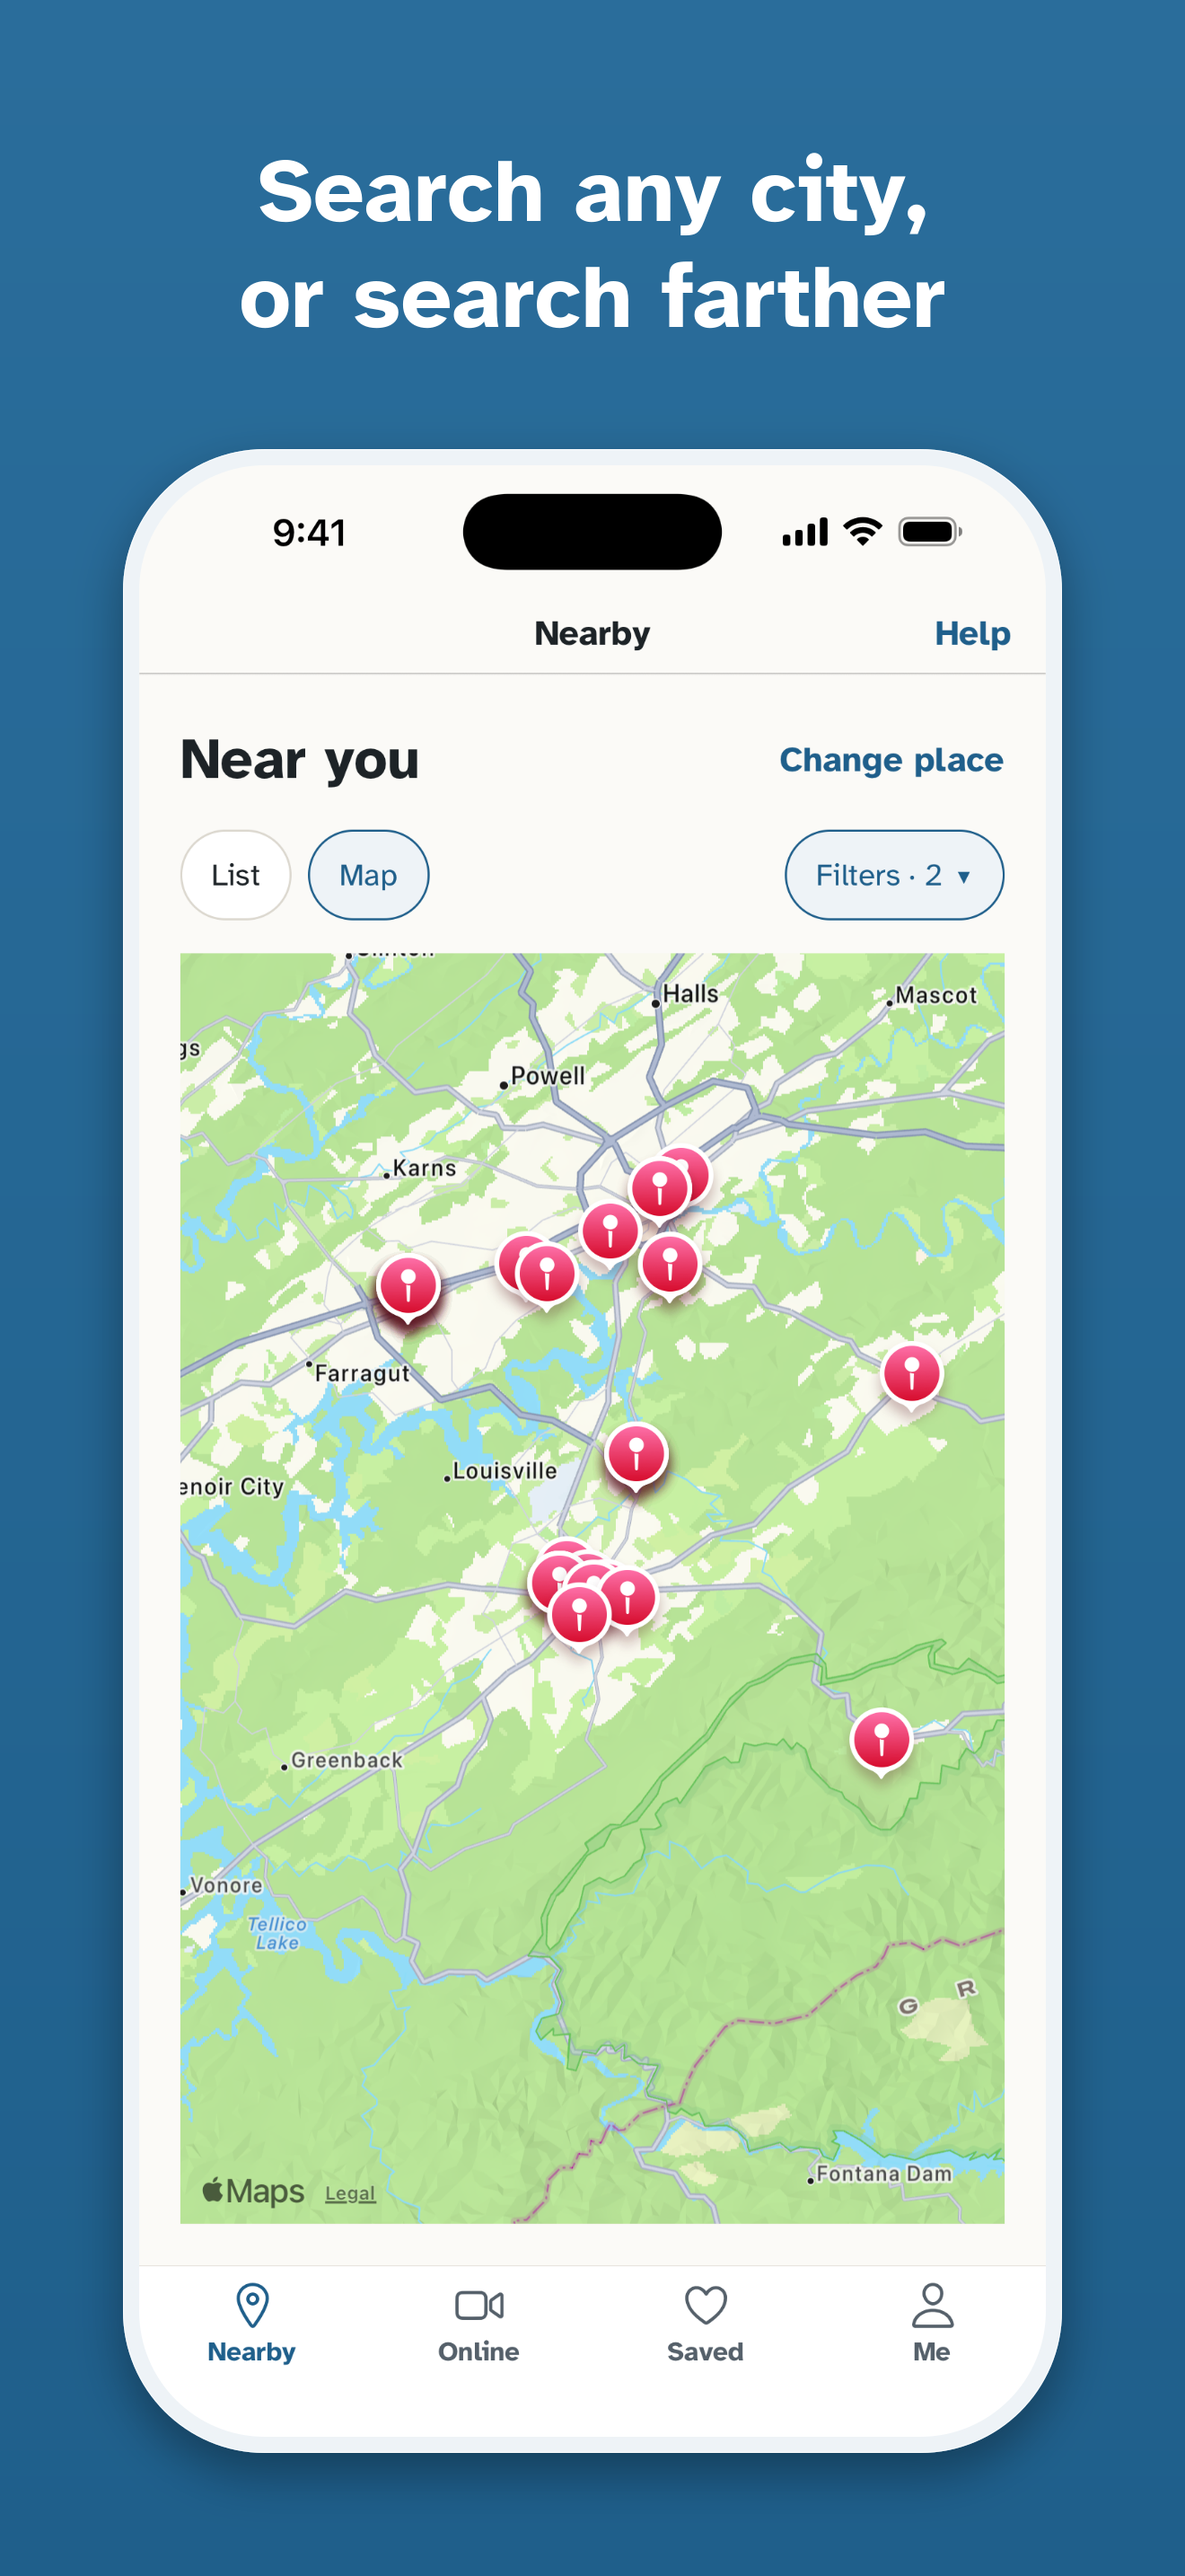
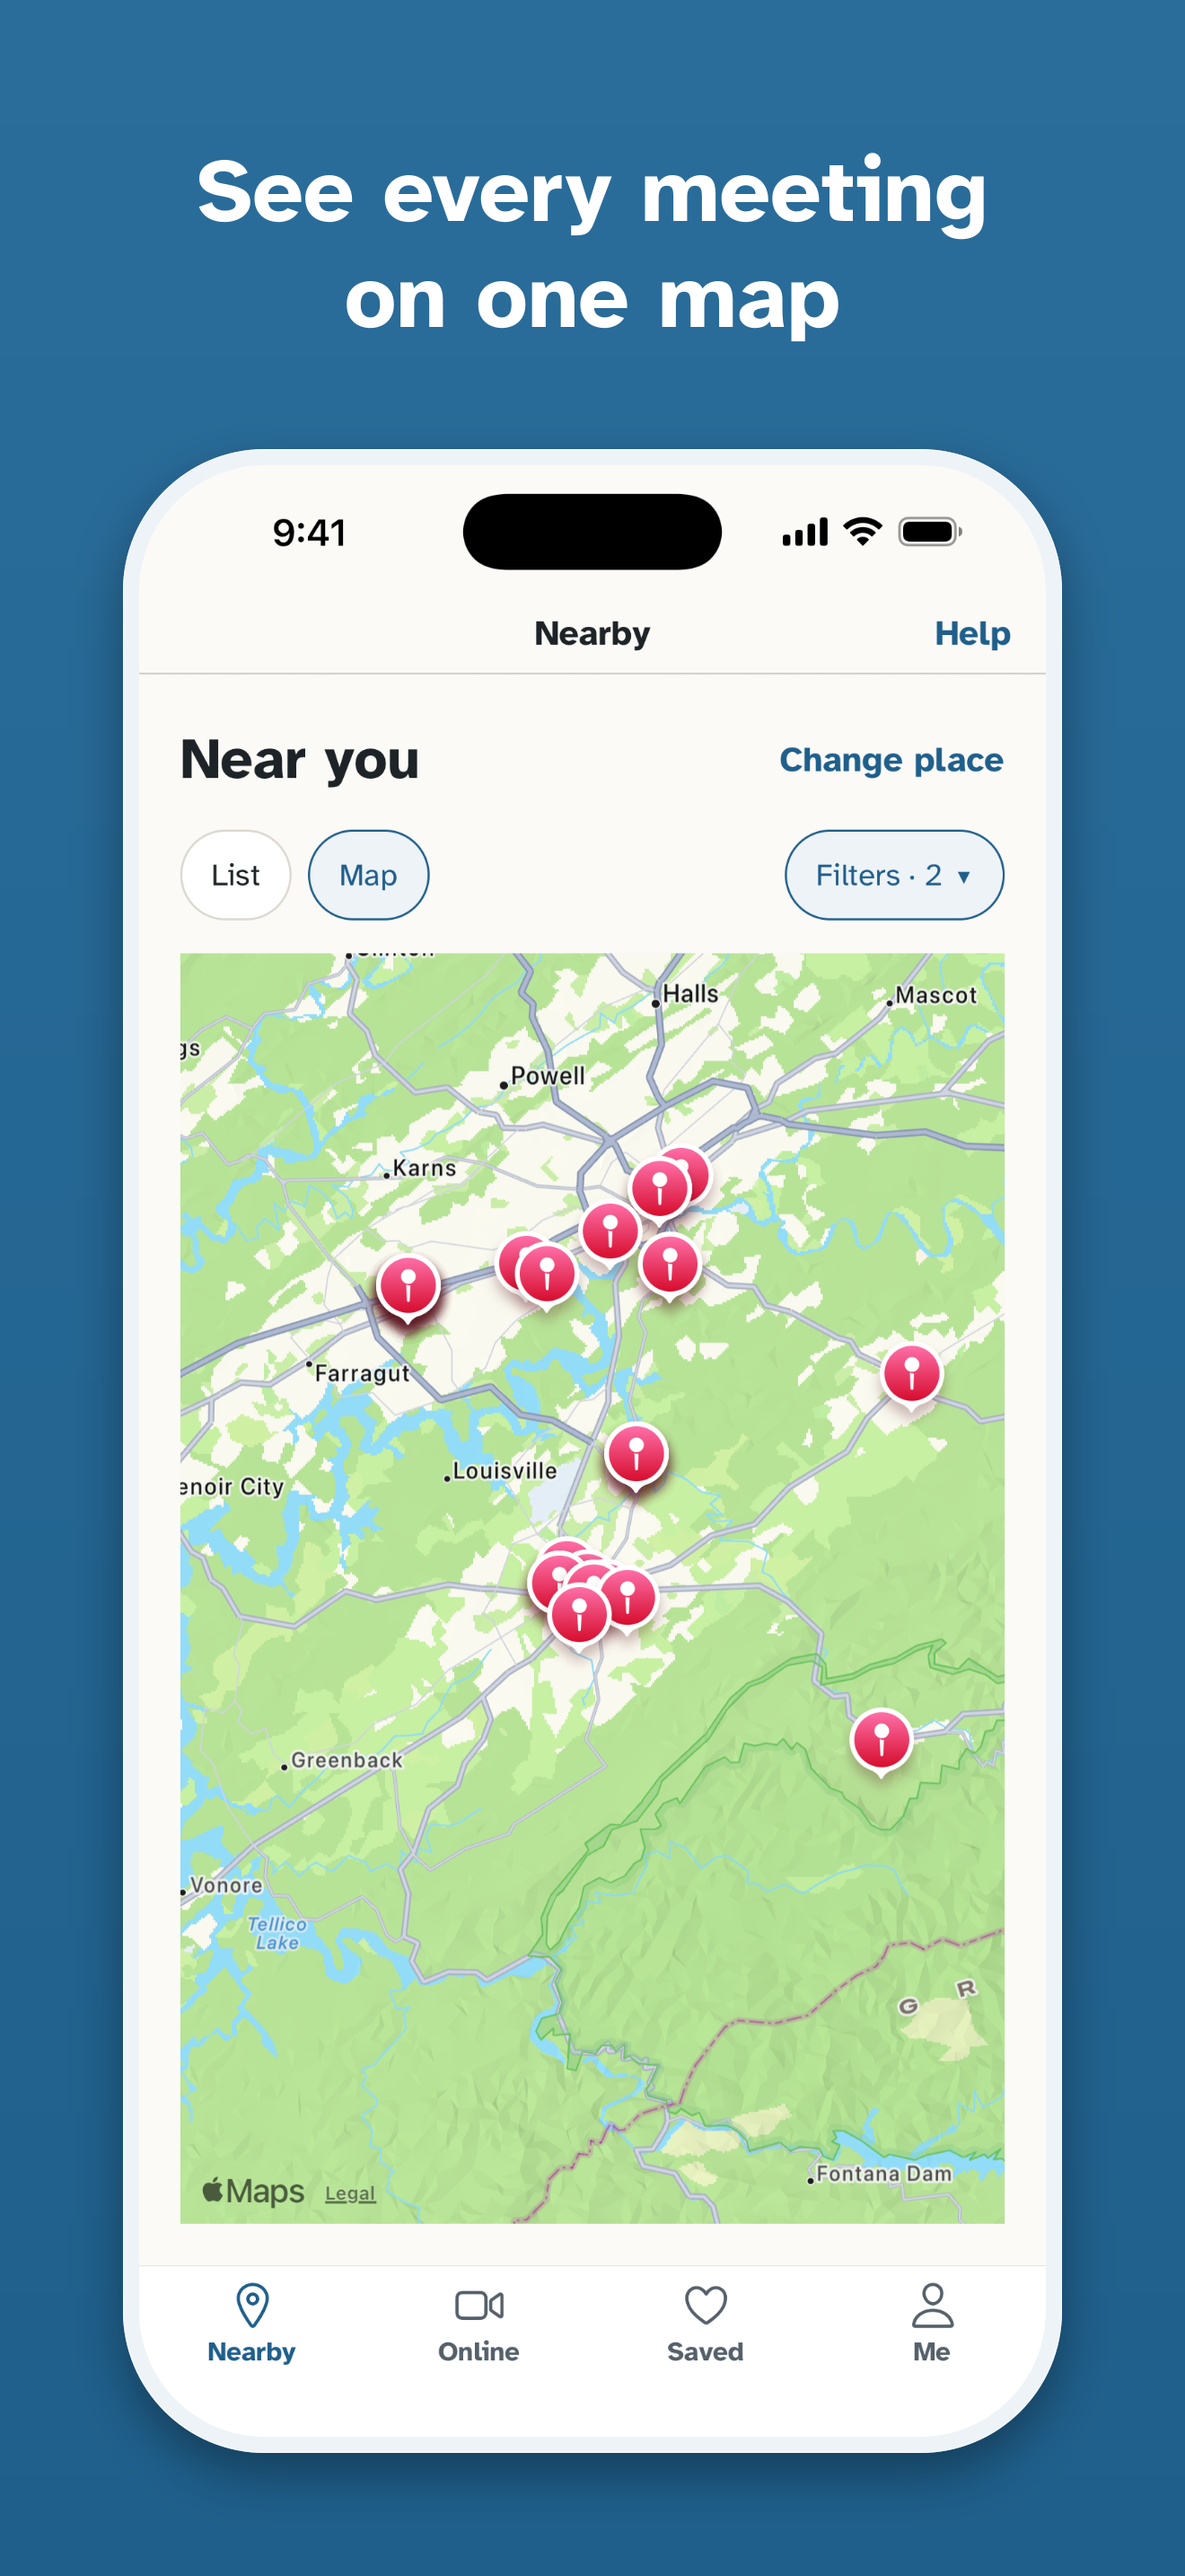
store: map headline, Play precise location and Maps sharing confirmed, 35 tags
Claude-Session: https://claude.ai/code/session_019qtuWT6wkew2g1c4qi6eKc

Changed region(s): [[0.1553, 0.0621, 0.8386, 0.1552]]

diff --git a/docs/google-play.md b/docs/google-play.md
@@ -41,7 +41,7 @@ What "Delete all my tags" leaves, as the privacy policy says: a blocked phone's 
 
 ### Data types
 
-Every type below: **Collected: yes. Shared: no.** Our host (Vercel), database (Neon) and suggestion screening act for us, and Google's Maps SDK and Play Integrity are libraries in the app, which Play counts as collection by the app. Not sold, never used for advertising or marketing, and no tracking.
+Every type below: **Collected: yes. Shared: no**, except the Maps SDK's crash logs, diagnostics and app interactions, which are **shared with Google** (below). Our host (Vercel), database (Neon) and suggestion screening act for us, and Google's Maps SDK and Play Integrity are libraries in the app, which Play counts as collection by the app. Not sold, never used for advertising or marketing, and no tracking.
 
 | Play data type                                             | Collected by                                                                                                           | SPEC §13 rows                                                                                                                                     | Ephemeral?                                       | Required or optional                                                                                               | Purposes                                             |
 | ---------------------------------------------------------- | ---------------------------------------------------------------------------------------------------------------------- | ------------------------------------------------------------------------------------------------------------------------------------------------- | ------------------------------------------------ | ------------------------------------------------------------------------------------------------------------------ | ---------------------------------------------------- |
@@ -52,7 +52,7 @@ Every type below: **Collected: yes. Shared: no.** Our host (Vercel), database (N
 | App info and performance → **Crash logs**, **Diagnostics** | Maps SDK for Android (stack traces, device metadata: OS version, model, SDK version)                                   | Not ours; the app has no analytics or crash SDK                                                                                                   | No                                               | Required                                                                                                           | Analytics (Google's, for the SDK)                    |
 | Device or other IDs → **Device or other IDs**              | The app (`ANDROID_ID` with writes); Play Integrity (device attestation); Maps SDK (pseudonymous daily-user identifier) | `devices` (keyed hash), `device_days`, `tag_submissions.submitter_id`, `rate_limits`, `tag_audit` (7 days), `suggestions` (device link ≤ 30 days) | No                                               | Optional for the app's ID (sent only with tags, suggestions and "Delete all my tags"); required for the Maps SDK's | App functionality; Fraud prevention, security        |
 
-Precise location is declared although SPEC §11 lists only approximate. Play defines approximate location as an area of at least 3 km² and precise as anything smaller. The search point is rounded to two decimal places, about 1.1 × 0.9 km in the US, so about 1 km², and the near-meeting answer places the phone within 500 m of a known address at a known time. Both fall under Play's "precise", even though Apple's threshold (about 100 m) makes the same data coarse. **Owner decision needed:** confirm this, and SPEC §11 then gains "Precise location (Google's 3 km² threshold)".
+Precise location is declared although SPEC §11 lists only approximate. Play defines approximate location as an area of at least 3 km² and precise as anything smaller. The search point is rounded to two decimal places, about 1.1 × 0.9 km in the US, so about 1 km², and the near-meeting answer places the phone within 500 m of a known address at a known time. Both fall under Play's "precise", even though Apple's threshold (about 100 m) makes the same data coarse. Confirmed by the owner on 2026-10-04; SPEC §11 lists it.
 
 Not declared, and why:
 
@@ -65,7 +65,7 @@ Not declared, and why:
 
 Play Integrity (Google's notes) also receives the `requestHash` the app sends, the app's package, version and signing certificate, and Google's device attestation; Google doesn't pass it to third parties. It's covered by Device or other IDs above. If the app ever opts in to Play Integrity's environment details, add App activity → Other actions and revisit this page.
 
-The Maps SDK's crash logs, diagnostics and map interactions also help Google improve the SDK. Google's notes leave it to the developer whether that is sharing; this page answers no, as most Maps apps do. If the owner wants the most cautious reading, mark those three as shared with Google for analytics: it changes nothing else here.
+The Maps SDK's crash logs, diagnostics and map interactions also help Google improve the SDK. Google's notes leave it to the developer whether that is sharing; this page takes the cautious reading (owner, 2026-10-04): mark those three as **shared** with Google, purpose Analytics. Nothing else here changes.
 
 ## Content rating (IARC)
 

diff --git a/docs/app-store.md b/docs/app-store.md
@@ -43,7 +43,7 @@ App Store Connect → App Information → Age Rating → Edit. Answer:
 | **Medical or Treatment Information**                                                                                     | **Infrequent**                         | The Help screen gives the SAMHSA National Helpline (treatment referral) and 988                                                                                                  |
 | **Health or Wellness Topics**                                                                                            | **Yes**                                | Sobriety counter, recovery meetings                                                                                                                                              |
 | Unrestricted Web Access                                                                                                  | No                                     | Links open Safari, Maps or the phone app; there is no in-app browser                                                                                                             |
-| User-Generated Content                                                                                                   | No                                     | Tags come from a fixed list of neutral words (26 at launch); suggested words are screened and reviewed before anyone else sees them; there is no free text, profile or messaging |
+| User-Generated Content                                                                                                   | No                                     | Tags come from a fixed list of neutral words (35 at launch); suggested words are screened and reviewed before anyone else sees them; there is no free text, profile or messaging |
 | Social Media, Messaging and Chat, Advertising, Age Assurance, Parental Controls                                          | No                                     |                                                                                                                                                                                  |
 | Gambling, Loot Boxes                                                                                                     | No; Simulated Gambling, Contests: None |                                                                                                                                                                                  |
 
@@ -88,7 +88,7 @@ App Attest and DeviceCheck: so that only the real app can write, the app makes a
 
 Trying tags: tags can be added from a meeting's start until 36 hours after it, by people who went. To try it, search "Maryville, TN", open Filters, choose Morning under Time of day, and open a meeting that started earlier today. Choose "Tag this meeting", pick a few words, and choose "Send my tags". Please then choose "Remove my tags", so test tags don't stay on a real meeting. The Me tab's "Delete all my tags" removes everything this phone added.
 
-User content: tags are chosen from a fixed list of neutral words (26 at launch). People can suggest a new word; we screen and review each suggestion before anyone else sees it. There is no free text, profile, messaging or rating.
+User content: tags are chosen from a fixed list of neutral words (35 at launch). People can suggest a new word; we screen and review each suggestion before anyone else sees it. There is no free text, profile, messaging or rating.
 
 Health and safety: this is a meeting finder, not a medical or treatment app, and it gives no medical advice. Every screen has a Help button with the 988 Suicide & Crisis Lifeline and the SAMHSA National Helpline. My Meeting App is not affiliated with or endorsed by Alcoholics Anonymous or A.A. World Services; meeting listings come from public lists that local AA offices publish in the open Meeting Guide format.
 

diff --git a/SPEC.md b/SPEC.md
@@ -284,9 +284,10 @@ Design direction: calm, plain, highly legible (Atkinson Hyperlegible, self-hoste
   - All marked not linked to identity and not used for tracking.
 - **Google Play Data safety:**
   - Approximate location (processed ephemerally for search)
+  - Precise location (Google's 3 km² threshold: the ~1 km search point and the near-meeting answer fall under it)
   - Device or other IDs
   - App activity / other user-generated content
-  - Plus whatever Google's own guidance lists for the Maps SDK and Play Integrity.
+  - Plus whatever Google's own guidance lists for the Maps SDK and Play Integrity; the Maps SDK's crash logs, diagnostics and app interactions are marked shared with Google (analytics).
 - iOS location purpose strings (when-in-use, temporary full accuracy), iOS privacy manifest (required-reason APIs), Android coarse + fine foreground location permissions only.
 - Age rating questionnaires (alcohol references apply).
 - App Store keywords: AA meetings, meeting finder, sobriety counter. "AA" is an AAWS trademark: use it descriptively only, never in the app name or icon.
